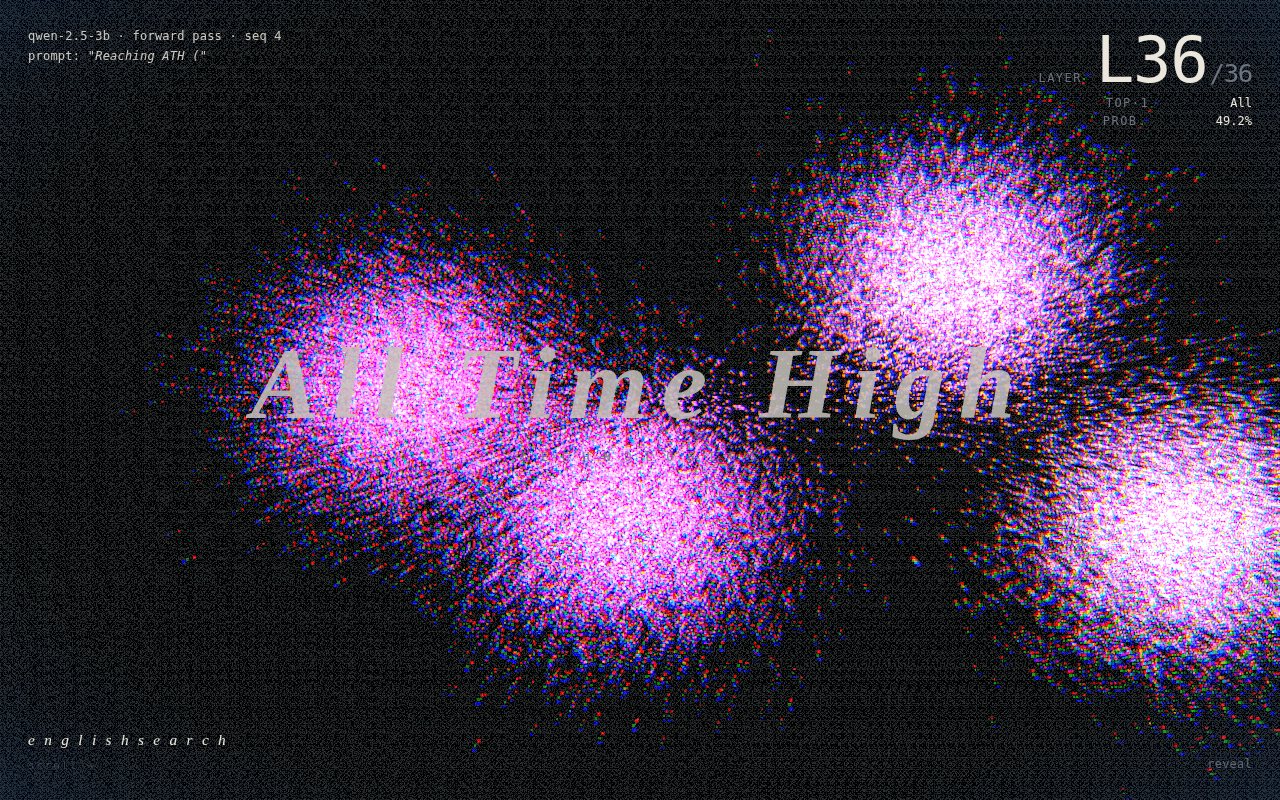
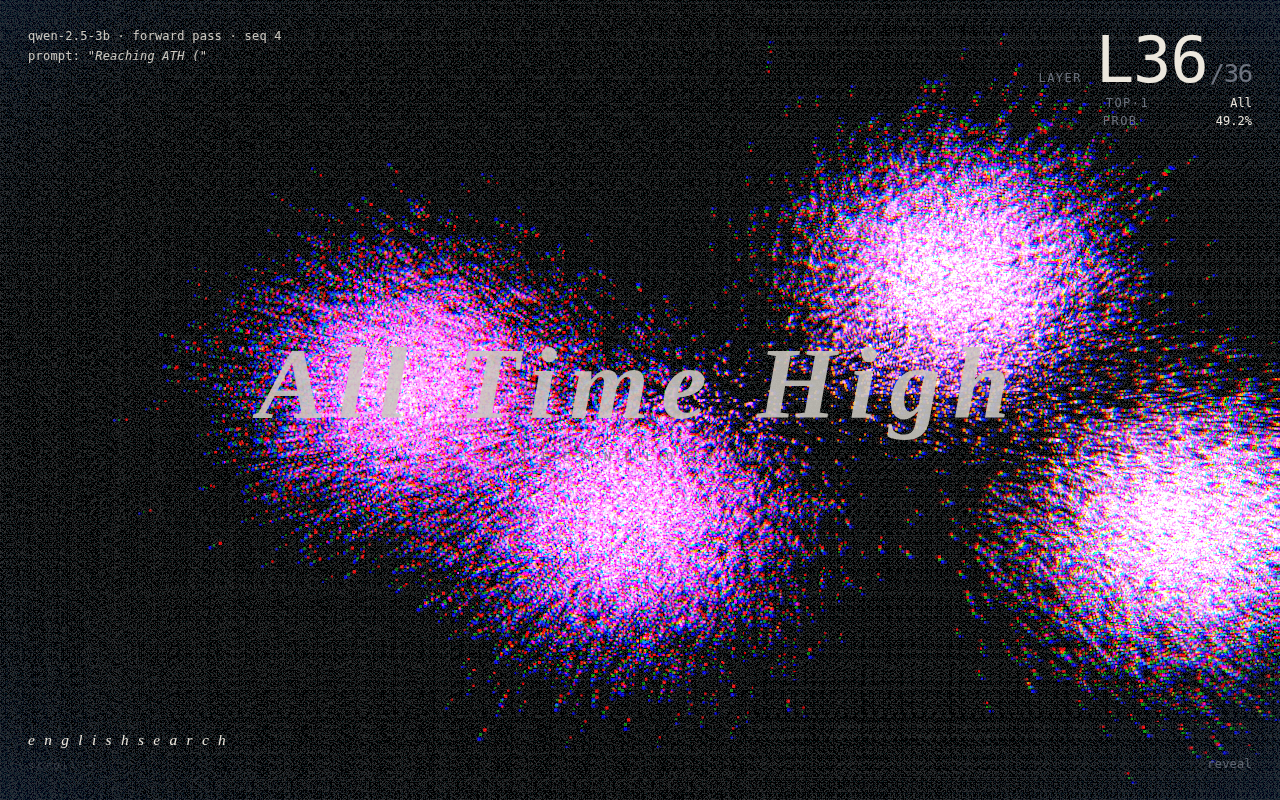
polish: align brand reveal with L36 plateau; gate phase logic for L0
- L0 phase forced to 'confusion' (it's the trivially-input embedding
  layer, not a real prediction)
- acronym_lock requires layer >= L/3 (~12) so early high-prob bracket
  spam doesn't masquerade as climax
- brand reveal now ramps across the 90-100% scroll range (L36 plateau)
  rather than 80-100% (which mixed with the L29 cross-lingual ramp)
- lint clean (Simulator.ts unused-expression -> if-stmt; scripts/
  ignored from eslint)

Visual narrative now reads correctly across the smoke screenshots:
L00='confusion', L20='recognition' top1='formerly', L36='english_search'
with brand 'All Time High' fully visible.

diff --git a/src/state/narrative.ts b/src/state/narrative.ts
@@ -42,13 +42,20 @@ export function derivePhases(bundle: TensorBundle): PhaseSample[] {
       lastTopId = topId;
     }
 
+    // L0 is the embedding-projected logits — it trivially returns the input
+    // token (prob~1.0). Treat it as confusion regardless of dominance.
     let phase: NarrativePhase;
-    if (layer === L && topProb > 0.7) phase = 'crystallization';
+    if (layer === 0) {
+      phase = 'confusion';
+    } else if (layer === L && topProb > 0.7) phase = 'crystallization';
     else if (isCJK) {
       phase = 'cross_lingual';
       sawCJK = true;
     } else if (sawCJK && isLatin) phase = 'english_search';
-    else if (topProb > 0.3) phase = 'acronym_lock';
+    // The "lock" beat only makes sense once the model has settled into a real
+    // prediction band — guard with layer >= L/3 so early high-prob noise on
+    // bracket-like tokens doesn't masquerade as the climax.
+    else if (topProb > 0.3 && layer >= Math.floor(L / 3)) phase = 'acronym_lock';
     else if (stableCount >= 2) phase = 'recognition';
     else phase = 'confusion';
 

diff --git a/src/state/ScrollDriver.tsx b/src/state/ScrollDriver.tsx
@@ -66,8 +66,8 @@ export function ScrollDriver({ bundle, scrollVh = 6 }: Props) {
       const layerInt = Math.min(bundle.numLayers, Math.floor(layerFrac));
       const sample = phases[Math.min(layerInt, phases.length - 1)];
 
-      // brand reveal kicks in across the final ~20% of scroll.
-      const brand = Math.max(0, Math.min(1, (scroll - 0.8) / 0.2));
+      // brand reveal aligns with the L36 plateau (last 10% of scroll).
+      const brand = Math.max(0, Math.min(1, (scroll - 0.9) / 0.08));
 
       setSub({
         layerInt,

diff --git a/src/gpgpu/Simulator.ts b/src/gpgpu/Simulator.ts
@@ -127,7 +127,7 @@ export class Simulator {
     renderer.render(scene, this.camera);
     renderer.setRenderTarget(prev);
     initMat.dispose();
-    tmp.geometry === this.mesh.geometry || tmp.geometry.dispose();
+    if (tmp.geometry !== this.mesh.geometry) tmp.geometry.dispose();
   }
 
   /** Advance the simulation one tick; returns the texture holding the new state. */

diff --git a/eslint.config.js b/eslint.config.js
@@ -5,7 +5,7 @@ import reactHooks from 'eslint-plugin-react-hooks';
 import reactRefresh from 'eslint-plugin-react-refresh';
 
 export default [
-  { ignores: ['dist', 'node_modules', 'public'] },
+  { ignores: ['dist', 'node_modules', 'public', 'scripts'] },
   js.configs.recommended,
   {
     files: ['**/*.{ts,tsx}'],
